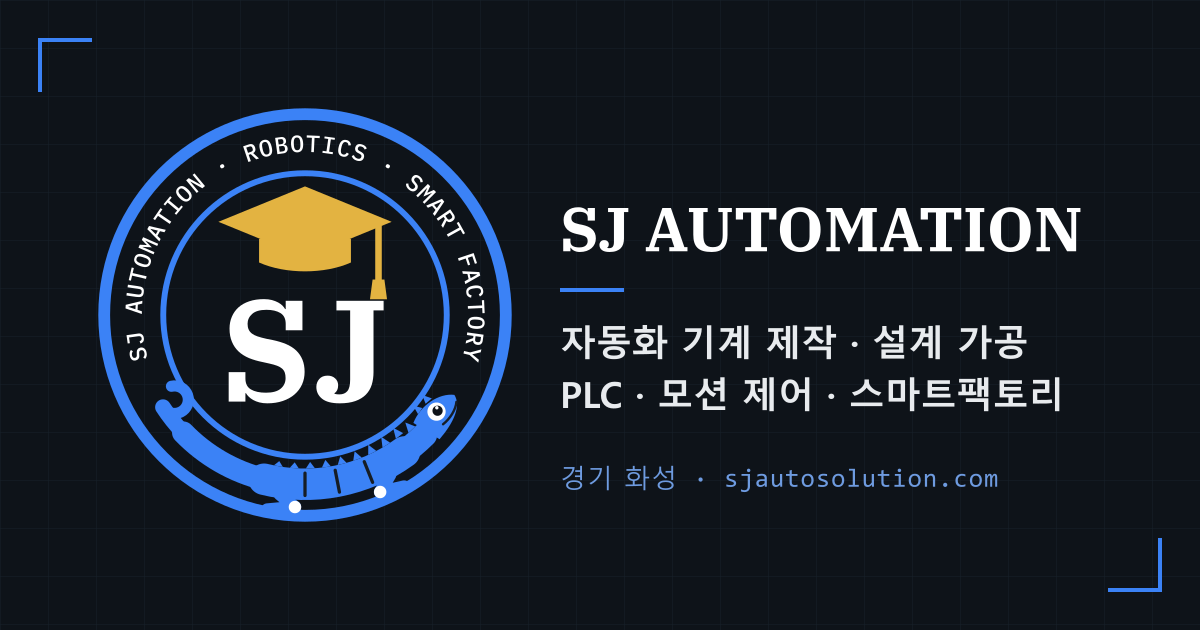
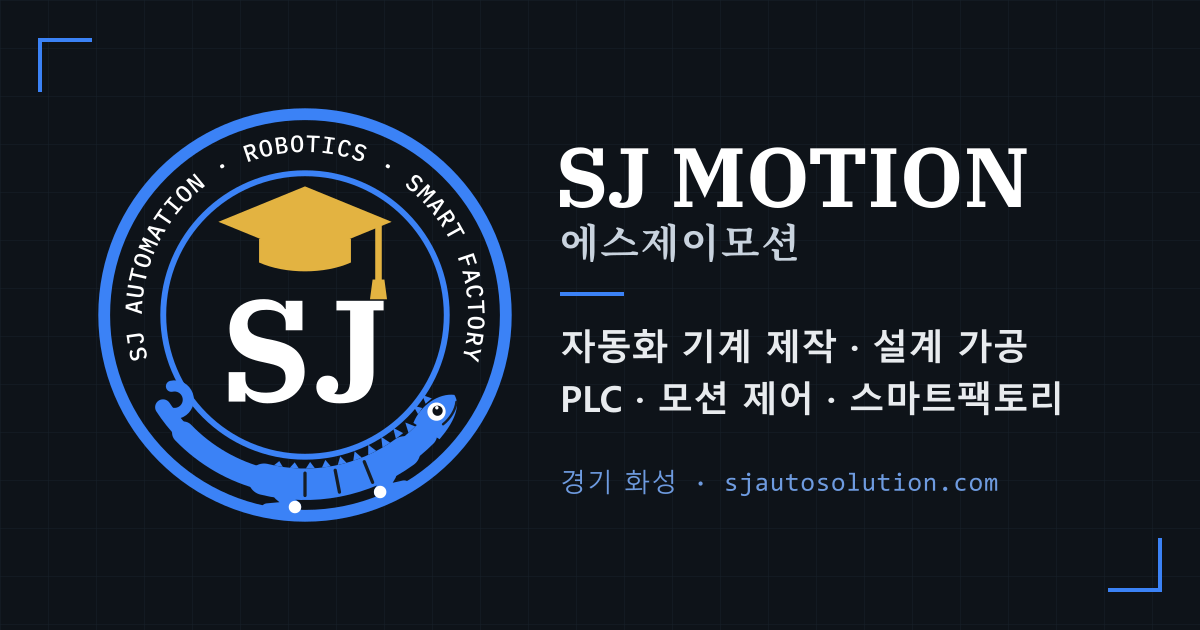
상호 변경: SJ AUTOMATION → 에스제이모션 (영문 SJ MOTION)
- 사이트 이름 SITE_NAME '에스제이모션', SITE_NAME_EN 'SJ MOTION'
- 탭 제목 · 검색 제목 · 설명 · 공유 카드 · 회사 정보(JSON-LD alternateName) 변경
- 회사소개 회사명 · 본문, 홈 소개 문구, 개인정보처리방침 회사명 · 담당, 꼬리말 ©,
  문의 알림 메일 보낸 사람 이름 변경
- 공유 이미지(og.png) 다시 만듦: SJ MOTION + 에스제이모션
- 쓰지 않게 된 영문 세리프 글꼴(IBM Plex Serif) 제거
- 로고는 그대로

diff --git a/web/app/about/page.tsx b/web/app/about/page.tsx
@@ -7,12 +7,12 @@ import { pageMeta } from '@/lib/seo';
 export const metadata: Metadata = pageMeta({
   title: '회사소개',
   description:
-    'SJ AUTOMATION 회사소개 — 기계 설계 · 가공, 전장 · PLC 제어, 로보틱스 · 임베디드 · 소프트웨어 팀이 경기 화성 사업장 한 곳에 모여 자동화 장비를 처음부터 끝까지 만듭니다.',
+    '에스제이모션(SJ MOTION) 회사소개 — 기계 설계 · 가공, 전장 · PLC 제어, 로보틱스 · 임베디드 · 소프트웨어 팀이 경기 화성 사업장 한 곳에 모여 자동화 장비를 처음부터 끝까지 만듭니다.',
   path: '/about',
 });
 
 const PROFILE_ROWS = [
-  ['회사명', 'SJ AUTOMATION'],
+  ['회사명', '에스제이모션 (영문 SJ MOTION)'],
   ['소재지', ADDRESS],
   ['주요 거래처', '한양대학교 등'],
   ['사업 분야', '자동화 기계 제작(턴키) · 설계 및 가공 · 모션/제어 솔루션 · 스마트팩토리 고도화'],
@@ -60,13 +60,13 @@ export default function AboutPage() {
             </h2>
             <p style={{ fontSize: 16, lineHeight: 1.95, color: 'var(--body)', maxWidth: 620, marginBottom: 22 }}>
               장비 하나를 만들려면 설계, 가공, 조립, 전장, 제어, 시운전이 다 필요합니다. 이걸 업체
-              다섯 곳에 나눠 맡기면 문제가 생겼을 때 서로 책임을 미룹니다. SJ AUTOMATION은 그
+              다섯 곳에 나눠 맡기면 문제가 생겼을 때 서로 책임을 미룹니다. 에스제이모션은 그
               과정을 한 곳에서 끝내려고 만든 회사입니다.
             </p>
             <p style={{ fontSize: 16, lineHeight: 1.95, color: 'var(--body)', maxWidth: 620, marginBottom: 22 }}>
               현장에서 오래 일하다 보면, 정말 잘 만든 장비는 설계자와 만든 사람이 같다는 걸 알게
               됩니다. 도면을 그린 사람이 가공까지 지켜보고, 가공을 한 사람이 제어까지 손대야
-              어긋남 없이 돌아갑니다. SJ AUTOMATION은 그 원칙 하나로 시작한 회사입니다.
+              어긋남 없이 돌아갑니다. 에스제이모션은 그 원칙 하나로 시작한 회사입니다.
             </p>
             <p style={{ fontSize: 16, lineHeight: 1.95, color: 'var(--body)', maxWidth: 620, marginBottom: 0 }}>
               규모가 크지 않은 만큼, 문의 주신 내용은 저희 팀이 직접 검토하고 답을 드립니다. 할 수

diff --git a/web/lib/seo.ts b/web/lib/seo.ts
@@ -2,11 +2,13 @@ import type { Metadata } from 'next';
 import { ADDRESS, EMAIL, PHONE } from '@/lib/contact';
 
 export const SITE_URL = 'https://sjautosolution.com';
-export const SITE_NAME = 'SJ AUTOMATION';
-export const HOME_TITLE = 'SJ AUTOMATION — 자동화 기계 제작 · PLC 제어 · 스마트팩토리';
+// 상호: 한글 에스제이모션 · 영문 SJ MOTION (2026-10 SJ AUTOMATION에서 변경). 둘 다 정식 이름으로 씁니다.
+export const SITE_NAME = '에스제이모션';
+export const SITE_NAME_EN = 'SJ MOTION';
+export const HOME_TITLE = '에스제이모션 SJ MOTION — 자동화 기계 제작 · PLC 제어 · 스마트팩토리';
 export const HOME_DESCRIPTION =
-  '경기 화성 SJ AUTOMATION. 자동화 기계 턴키 제작, 2D · 3D 설계와 가공, PLC · 서보 모션 제어, ARM 임베디드 보드, 스마트팩토리 · ERP 전산 연동까지 한 곳에서 합니다.';
-export const OG_IMAGE = { url: '/og.png', width: 1200, height: 630, alt: 'SJ AUTOMATION — 자동화 기계 제작 · PLC 제어 · 스마트팩토리' };
+  '경기 화성 에스제이모션(SJ MOTION). 자동화 기계 턴키 제작, 2D · 3D 설계와 가공, PLC · 서보 모션 제어, ARM 임베디드 보드, 스마트팩토리 · ERP 전산 연동까지 한 곳에서 합니다.';
+export const OG_IMAGE = { url: '/og.png', width: 1200, height: 630, alt: '에스제이모션 SJ MOTION — 자동화 기계 제작 · PLC 제어 · 스마트팩토리' };
 
 // 페이지별 제목 · 설명 · 대표 주소(canonical) · 공유 카드. 페이지에서 openGraph를 따로 쓰면
 // 레이아웃 값이 통째로 덮이므로 사이트 이름 · 언어 · 이미지까지 여기서 함께 채웁니다.
@@ -47,6 +49,7 @@ export const ORGANIZATION_JSON_LD = {
   '@context': 'https://schema.org',
   '@type': 'Organization',
   name: SITE_NAME,
+  alternateName: SITE_NAME_EN,
   url: SITE_URL,
   logo: `${SITE_URL}/brand/sj-emblem-light.png`,
   image: `${SITE_URL}/og.png`,

diff --git a/web/app/privacy/page.tsx b/web/app/privacy/page.tsx
@@ -5,7 +5,7 @@ import { EMAIL, EMAIL_HREF, PHONE, PHONE_HREF } from '@/lib/contact';
 
 export const metadata: Metadata = pageMeta({
   title: '개인정보처리방침',
-  description: 'SJ AUTOMATION 개인정보처리방침 — 견적 문의로 받는 개인정보의 처리 목적, 항목, 보유 기간, 위탁 및 국외 이전.',
+  description: '에스제이모션 개인정보처리방침 — 견적 문의로 받는 개인정보의 처리 목적, 항목, 보유 기간, 위탁 및 국외 이전.',
   path: '/privacy',
 });
 
@@ -57,7 +57,7 @@ export default function PrivacyPage() {
             개인정보처리방침
           </h1>
           <p style={{ fontSize: 16, lineHeight: 1.85, color: 'var(--muted)', maxWidth: 720 }}>
-            SJ AUTOMATION(이하 &lsquo;회사&rsquo;)은 「개인정보 보호법」에 따라 정보주체의 개인정보를 보호하고 관련 고충을
+            에스제이모션(SJ MOTION, 이하 &lsquo;회사&rsquo;)은 「개인정보 보호법」에 따라 정보주체의 개인정보를 보호하고 관련 고충을
             신속하게 처리할 수 있도록 다음과 같이 개인정보처리방침을 둡니다.
           </p>
           <p className="mono" style={{ fontSize: 12, color: 'var(--faint)', marginTop: 18, letterSpacing: '0.04em' }}>
@@ -208,7 +208,7 @@ export default function PrivacyPage() {
                   <tbody>
                     <tr>
                       <td style={{ width: 140, color: 'var(--muted)' }}>담당</td>
-                      <td>SJ AUTOMATION 개인정보 보호 담당</td>
+                      <td>에스제이모션 개인정보 보호 담당</td>
                     </tr>
                     <tr>
                       <td style={{ color: 'var(--muted)' }}>전화</td>

diff --git a/web/app/layout.tsx b/web/app/layout.tsx
@@ -1,5 +1,5 @@
 import type { Metadata } from 'next';
-import { IBM_Plex_Sans_KR, IBM_Plex_Mono, IBM_Plex_Serif, Noto_Serif_KR } from 'next/font/google';
+import { IBM_Plex_Sans_KR, IBM_Plex_Mono, Noto_Serif_KR } from 'next/font/google';
 import SiteHeader from '@/components/SiteHeader';
 import SiteFooter from '@/components/SiteFooter';
 import { HOME_DESCRIPTION, HOME_TITLE, OG_IMAGE, ORGANIZATION_JSON_LD, SITE_NAME, SITE_URL } from '@/lib/seo';
@@ -9,14 +9,6 @@ const sans = IBM_Plex_Sans_KR({
   subsets: ['latin'],
   weight: ['300', '400', '500', '600', '700'],
   variable: '--font-sans',
-  display: 'swap',
-});
-
-// 로고 옆 회사명(SJ AUTOMATION)에만 씁니다. 로고 안의 SJ와 같은 글꼴입니다.
-const serif = IBM_Plex_Serif({
-  subsets: ['latin'],
-  weight: ['700'],
-  variable: '--font-serif',
   display: 'swap',
 });
 
@@ -39,7 +31,7 @@ export const metadata: Metadata = {
   metadataBase: new URL(SITE_URL),
   title: {
     default: HOME_TITLE,
-    template: '%s · SJ AUTOMATION',
+    template: `%s · ${SITE_NAME}`,
   },
   description: HOME_DESCRIPTION,
   applicationName: SITE_NAME,
@@ -61,7 +53,7 @@ export const metadata: Metadata = {
 
 export default function RootLayout({ children }: { children: React.ReactNode }) {
   return (
-    <html lang="ko" className={`${sans.variable} ${mono.variable} ${serif.variable} ${serifKr.variable}`}>
+    <html lang="ko" className={`${sans.variable} ${mono.variable} ${serifKr.variable}`}>
       <body>
         <script type="application/ld+json" dangerouslySetInnerHTML={{ __html: JSON.stringify(ORGANIZATION_JSON_LD) }} />
         <SiteHeader />

diff --git a/web/app/page.tsx b/web/app/page.tsx
@@ -74,7 +74,7 @@ export default async function HomePage() {
         <div className="container grid split-7-5" style={{ alignItems: 'start' }}>
           <div>
             <div className="eyebrow">
-              <span className="num mono">SJ AUTOMATION</span>
+              <span className="num mono">SJ MOTION</span>
               <span className="rule" />
               <span className="label mono">FACTORY AUTOMATION · ROBOTICS · PLC</span>
             </div>
@@ -105,7 +105,7 @@ export default async function HomePage() {
               }}
             >
               도면 한 장에서 출발해 가공, 조립, PLC 제어, 생산 데이터 연동까지. 외주를 여러 곳에
-              쪼개지 않고 SJ AUTOMATION 한 곳에서 턴키로 진행합니다.
+              쪼개지 않고 에스제이모션 한 곳에서 턴키로 진행합니다.
             </p>
 
             <div style={{ display: 'flex', gap: 12, marginBottom: 56, flexWrap: 'wrap' }}>

diff --git a/web/app/works/page.tsx b/web/app/works/page.tsx
@@ -7,7 +7,7 @@ import { WORKS, WORK_CATEGORIES, hasVideo } from '@/lib/works';
 export const metadata: Metadata = pageMeta({
   title: '실적사례',
   description:
-    'SJ AUTOMATION 실적사례 — 내진용 부품 전용 CNC 가공기, 절단기 가공 라인, 철판 V-Cutting, 무인 굴삭기 원격 관제, 서보 튜닝 HMI, 절곡기 · 절단기 SCADA 모니터링, 자동화 연계 ERP 등 자동화 기계 · 제어 · 스마트팩토리 납품 사례.',
+    '에스제이모션 실적사례 — 내진용 부품 전용 CNC 가공기, 절단기 가공 라인, 철판 V-Cutting, 무인 굴삭기 원격 관제, 서보 튜닝 HMI, 절곡기 · 절단기 SCADA 모니터링, 자동화 연계 ERP 등 자동화 기계 · 제어 · 스마트팩토리 납품 사례.',
   path: '/works',
 });
 

diff --git a/web/app/notice/[id]/page.tsx b/web/app/notice/[id]/page.tsx
@@ -35,7 +35,7 @@ async function getNotice(id: string) {
 export async function generateMetadata({ params }: { params: Promise<{ id: string }> }): Promise<Metadata> {
   const n = await getNotice((await params).id);
   if (!n) return { title: '공지사항' };
-  const description = n.body.replace(/\s+/g, ' ').trim().slice(0, 140) || `SJ AUTOMATION 공지 — ${n.title}`;
+  const description = n.body.replace(/\s+/g, ' ').trim().slice(0, 140) || `에스제이모션 공지 — ${n.title}`;
   return pageMeta({ title: n.title, description, path: `/notice/${n.id}` });
 }
 

diff --git a/web/app/archive/page.tsx b/web/app/archive/page.tsx
@@ -7,7 +7,7 @@ import { createAdminClient } from '@/lib/supabase-admin';
 
 export const metadata: Metadata = pageMeta({
   title: '자료실',
-  description: 'SJ AUTOMATION 자료실 — 기술지원 자료, 납품 장비 매뉴얼, PLC · 모션 제어 강의 자료, 소프트웨어 툴.',
+  description: '에스제이모션 자료실 — 기술지원 자료, 납품 장비 매뉴얼, PLC · 모션 제어 강의 자료, 소프트웨어 툴.',
   path: '/archive',
 });
 

diff --git a/web/app/request/actions.ts b/web/app/request/actions.ts
@@ -152,7 +152,7 @@ async function notify(n: Notice) {
     method: 'POST',
     headers: { Authorization: `Bearer ${key}`, 'Content-Type': 'application/json' },
     body: JSON.stringify({
-      from: 'SJ AUTOMATION 홈페이지 <onboarding@resend.dev>',
+      from: '에스제이모션 홈페이지 <onboarding@resend.dev>',
       to: [EMAIL],
       reply_to: n.email,
       subject: `[홈페이지 문의] ${n.title} — ${n.company} · ${n.name}`,

diff --git a/web/app/globals.css b/web/app/globals.css
@@ -1,5 +1,5 @@
 /* ============================================================
-   SJ AUTOMATION — 디자인 토큰 & 공통 컴포넌트
+   에스제이모션 (SJ MOTION) — 디자인 토큰 & 공통 컴포넌트
    시안(정밀 도면 스타일)에서 그대로 옮긴 값입니다. 값을 바꾸면
    시안과 어긋나니, 톤을 바꿀 게 아니면 그대로 두세요.
    ============================================================ */

diff --git a/web/app/notice/page.tsx b/web/app/notice/page.tsx
@@ -6,7 +6,7 @@ import { createAdminClient } from '@/lib/supabase-admin';
 
 export const metadata: Metadata = pageMeta({
   title: '공지사항',
-  description: 'SJ AUTOMATION 공지사항 — 휴무 안내, 설비 도입, 인증 취득 등 거래처에 알려드리는 소식.',
+  description: '에스제이모션 공지사항 — 휴무 안내, 설비 도입, 인증 취득 등 거래처에 알려드리는 소식.',
   path: '/notice',
 });
 

diff --git a/web/components/SiteFooter.tsx b/web/components/SiteFooter.tsx
@@ -45,7 +45,7 @@ export default function SiteFooter() {
         </div>
 
         <div className="footer-bottom">
-          <span>© {new Date().getFullYear()} SJ AUTOMATION</span>
+          <span>© {new Date().getFullYear()} 에스제이모션 (SJ MOTION)</span>
           <span className="legal-links">
             <a href="/privacy">개인정보처리방침</a>
             <a href="/admin">관리자</a>
